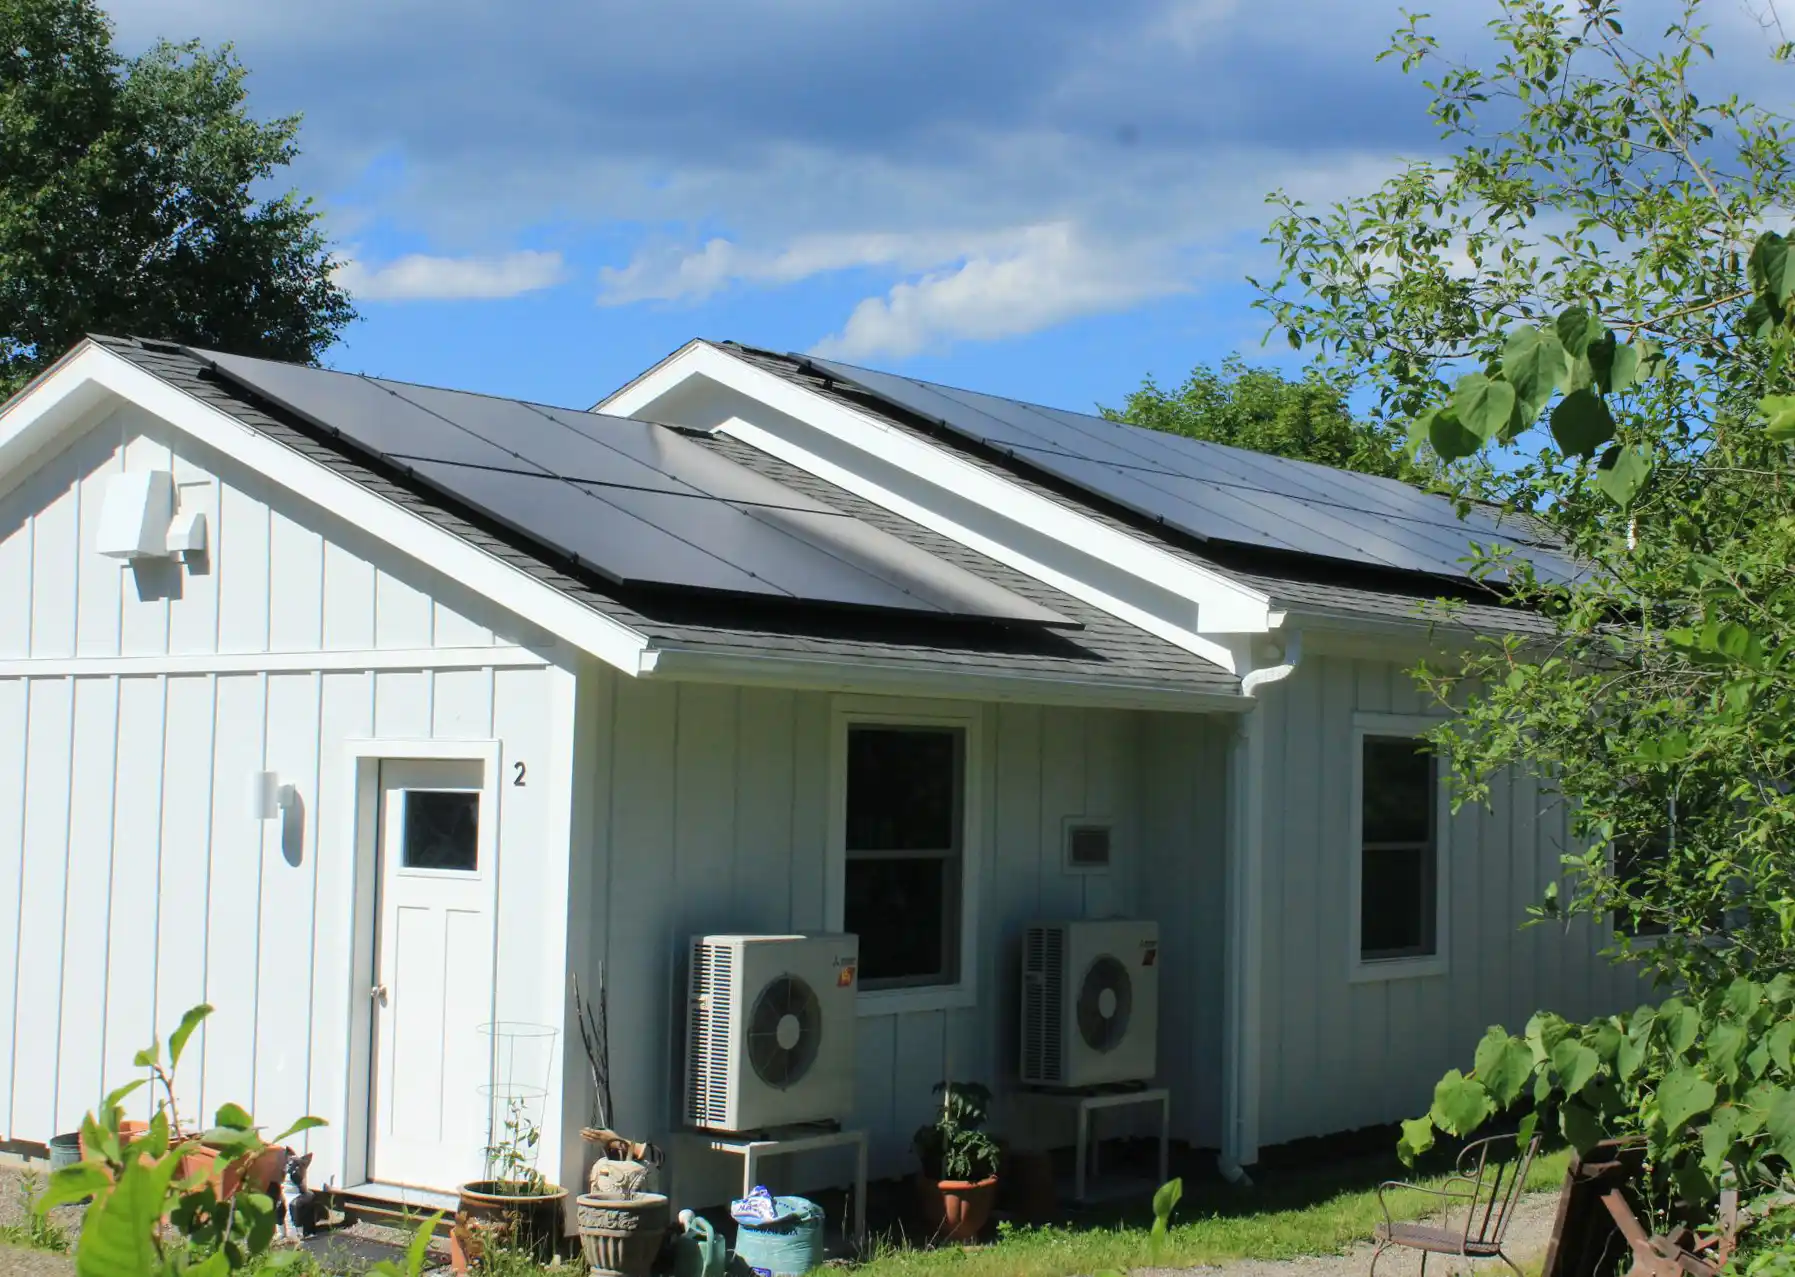
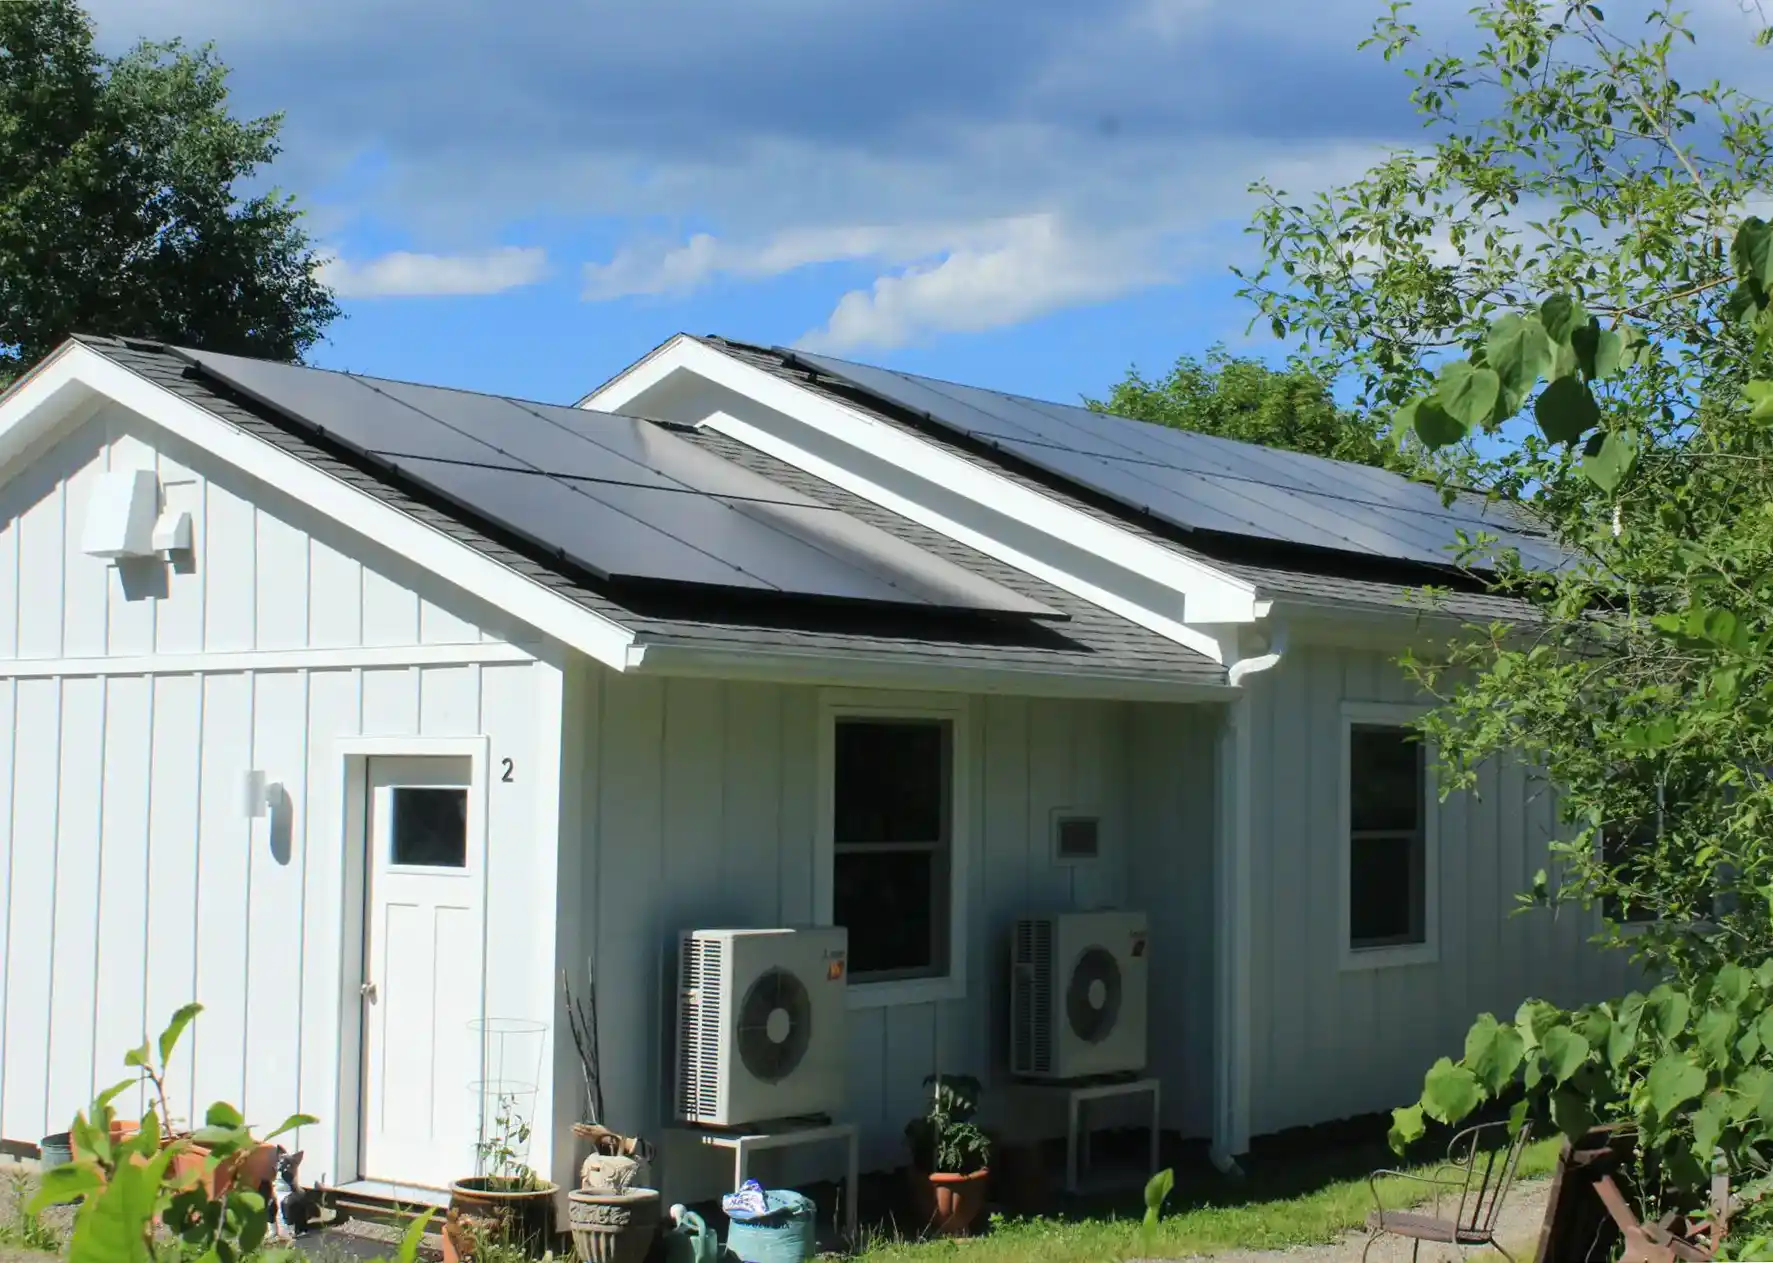
added Svea; minor edits

diff --git a/index.html b/index.html
@@ -629,13 +629,13 @@
       <p class="section-eyebrow">The People</p>
       <h2 class="section-title">The Northridge Team</h2>
       <div class="section-rule"></div>
-      <p style="color:#3a4a44;line-height:1.8;">Mike Martin doesn't build alone. Every trade on a Northridge project is a partner who has worked with us before — people whose quality and character we stand behind.</p>
+      <p style="color:#3a4a44;line-height:1.8;">Northridge Construction's trade partners are crucial to each projects's quality. Every trade on a Northridge project is a partner who has worked with us before — people whose quality and character we stand behind.</p>
     </div>
 
     <!-- Mike — featured -->
     <div class="reveal grid md:grid-cols-3 gap-8 mb-12">
       <div style="background:#f0f2ef;padding:2rem;display:flex;gap:1.25rem;align-items:flex-start;">
-        <img src="assets/img/team/team-1.jpg" alt="Mike Martin" style="width:72px;height:72px;border-radius:50%;object-fit:cover;flex-shrink:0;" />
+        <img src="assets/img/team/team-1.webp" alt="Mike Martin" style="width:72px;height:72px;border-radius:50%;object-fit:cover;flex-shrink:0;" />
         <div>
           <p style="font-family:'Lora',serif;font-size:1.1rem;font-weight:600;color:#1e2a26;">Mike Martin</p>
           <p style="font-size:0.7rem;letter-spacing:0.1em;text-transform:uppercase;color:#3d6b5a;margin:0.25rem 0 0.75rem;">Owner &amp; General Contractor</p>
@@ -643,7 +643,7 @@
         </div>
       </div>
       <div style="background:#f0f2ef;padding:2rem;display:flex;gap:1.25rem;align-items:flex-start;">
-        <img src="assets/img/team/team-2.jpg" alt="Susie Meadows" style="width:72px;height:72px;border-radius:50%;object-fit:cover;flex-shrink:0;" />
+        <img src="assets/img/team/team-2.webp" alt="Susie Meadows" style="width:72px;height:72px;border-radius:50%;object-fit:cover;flex-shrink:0;" />
         <div>
           <p style="font-family:'Lora',serif;font-size:1.1rem;font-weight:600;color:#1e2a26;">Susie Meadows</p>
           <p style="font-size:0.7rem;letter-spacing:0.1em;text-transform:uppercase;color:#3d6b5a;margin:0.25rem 0 0.75rem;">Office Manager</p>
@@ -651,7 +651,7 @@
         </div>
       </div>
       <div style="background:#f0f2ef;padding:2rem;display:flex;gap:1.25rem;align-items:flex-start;">
-        <img src="assets/img/team/team-3.jpg" alt="Donny Manson" style="width:72px;height:72px;border-radius:50%;object-fit:cover;flex-shrink:0;" />
+        <img src="assets/img/team/team-3.webp" alt="Donny Manson" style="width:72px;height:72px;border-radius:50%;object-fit:cover;flex-shrink:0;" />
         <div>
           <p style="font-family:'Lora',serif;font-size:1.1rem;font-weight:600;color:#1e2a26;">Donny Manson</p>
           <p style="font-size:0.7rem;letter-spacing:0.1em;text-transform:uppercase;color:#3d6b5a;margin:0.25rem 0 0.75rem;">Specialist</p>
@@ -666,39 +666,46 @@
       <div class="grid grid-cols-2 md:grid-cols-4 gap-px bg-fog-dark">
 
         <div style="background:#faf9f7;padding:1.25rem 1.5rem;display:flex;align-items:center;gap:1rem;">
-          <img src="assets/img/team/team-4.jpg" alt="Tim Dube" style="width:48px;height:48px;border-radius:50%;object-fit:cover;flex-shrink:0;" />
+          <img src="assets/img/team/team-4.webp" alt="Tim Dube" style="width:48px;height:48px;border-radius:50%;object-fit:cover;flex-shrink:0;" />
           <div><p style="font-size:0.875rem;font-weight:500;color:#1e2a26;">Tim Dube</p><p style="font-size:0.72rem;color:#6b7f78;">Dube's Construction</p></div>
         </div>
 
         <div style="background:#faf9f7;padding:1.25rem 1.5rem;display:flex;align-items:center;gap:1rem;">
-          <img src="assets/img/team/team-5.jpg" alt="Adam MacDonald" style="width:48px;height:48px;border-radius:50%;object-fit:cover;flex-shrink:0;" />
+          <img src="assets/img/team/team-5.webp" alt="Adam MacDonald" style="width:48px;height:48px;border-radius:50%;object-fit:cover;flex-shrink:0;" />
           <div><p style="font-size:0.875rem;font-weight:500;color:#1e2a26;">Adam MacDonald</p><p style="font-size:0.72rem;color:#6b7f78;">MacDonald Concrete</p></div>
         </div>
 
         <div style="background:#faf9f7;padding:1.25rem 1.5rem;display:flex;align-items:center;gap:1rem;">
-          <img src="assets/img/team/team-6.jpg" alt="Gary Ensworth" style="width:48px;height:48px;border-radius:50%;object-fit:cover;flex-shrink:0;" />
+          <img src="assets/img/team/team-6.webp" alt="Gary Ensworth" style="width:48px;height:48px;border-radius:50%;object-fit:cover;flex-shrink:0;" />
           <div><p style="font-size:0.875rem;font-weight:500;color:#1e2a26;">Gary Ensworth</p><p style="font-size:0.72rem;color:#6b7f78;">Maple Knoll Builders</p></div>
         </div>
 
         <div style="background:#faf9f7;padding:1.25rem 1.5rem;display:flex;align-items:center;gap:1rem;">
-          <img src="assets/img/team/team-7.jpg" alt="Jamie Luce" style="width:48px;height:48px;border-radius:50%;object-fit:cover;flex-shrink:0;" />
+          <img src="assets/img/team/team-7.webp" alt="Jamie Luce" style="width:48px;height:48px;border-radius:50%;object-fit:cover;flex-shrink:0;" />
           <div><p style="font-size:0.875rem;font-weight:500;color:#1e2a26;">Jamie Luce</p><p style="font-size:0.72rem;color:#6b7f78;">Maple Knoll Builders</p></div>
         </div>
 
         <div style="background:#faf9f7;padding:1.25rem 1.5rem;display:flex;align-items:center;gap:1rem;">
-          <img src="assets/img/team/team-8.jpg" alt="Forrest Larrabee" style="width:48px;height:48px;border-radius:50%;object-fit:cover;flex-shrink:0;" />
+          <img src="assets/img/team/team-8.webp" alt="Forrest Larrabee" style="width:48px;height:48px;border-radius:50%;object-fit:cover;flex-shrink:0;" />
           <div><p style="font-size:0.875rem;font-weight:500;color:#1e2a26;">Forrest Larrabee</p><p style="font-size:0.72rem;color:#6b7f78;">Larrabee Plumbing</p></div>
         </div>
 
         <div style="background:#faf9f7;padding:1.25rem 1.5rem;display:flex;align-items:center;gap:1rem;">
-          <img src="assets/img/team/team-9.jpg" alt="Jeff Niess" style="width:48px;height:48px;border-radius:50%;object-fit:cover;flex-shrink:0;" />
+          <img src="assets/img/team/team-9.webp" alt="Jeff Niess" style="width:48px;height:48px;border-radius:50%;object-fit:cover;flex-shrink:0;" />
           <div><p style="font-size:0.875rem;font-weight:500;color:#1e2a26;">Jeff Niess</p><p style="font-size:0.72rem;color:#6b7f78;">Niess Tile</p></div>
         </div>
 
         <div style="background:#faf9f7;padding:1.25rem 1.5rem;display:flex;align-items:center;gap:1rem;">
-          <img src="assets/img/team/team-10.jpg" alt="Kevin Gray" style="width:48px;height:48px;border-radius:50%;object-fit:cover;flex-shrink:0;" />
+          <img src="assets/img/team/team-10.webp" alt="Kevin Gray" style="width:48px;height:48px;border-radius:50%;object-fit:cover;flex-shrink:0;" />
           <div><p style="font-size:0.875rem;font-weight:500;color:#1e2a26;">Kevin Gray</p><p style="font-size:0.72rem;color:#6b7f78;">Kenney &amp; Gray Electric</p></div>
         </div>
+
+      <a href="https://www.maineblowerdoortest.com/" target="_blank" style="text-decoration:none;">
+        <div style="background:#faf9f7;padding:1.25rem 1.5rem;display:flex;align-items:center;gap:1rem;">
+          <img src="assets/img/team/team-11.webp" alt="Svea Tullberg" style="width:48px;height:48px;border-radius:50%;object-fit:cover;flex-shrink:0;" />
+          <div><p style="font-size:0.875rem;font-weight:500;color:#1e2a26;">Svea Tullberg</p><p style="font-size:0.72rem;color:#6b7f78;">Maine Blower Door Testing</p></div>
+        </div>
+      </a>
 
       </div>
     </div>
@@ -808,7 +815,7 @@
           <span style="font-family:'Lora',serif;font-size:1rem;font-weight:600;color:#1e2a26;">How much does it cost to build a new house in Midcoast Maine?</span>
           <svg class="faq-chevron" width="16" height="16" viewBox="0 0 16 16" fill="none" style="flex-shrink:0;"><path d="M3 6l5 5 5-5" stroke="#3d6b5a" stroke-width="1.5" stroke-linecap="round" stroke-linejoin="round"/></svg>
         </summary>
-        <p style="margin-top:1rem;color:#3a4a44;line-height:1.8;font-size:0.9rem;">A typical cost range is $350 to $425 per square foot for the home itself. The larger the home's conditioned area, the lower the cost per square foot, and vice versa. Note that this cost refers to the structure — not the lot, site utilities, or design fees. Use our <a href="#your-project" style="color:#3d6b5a;font-weight:500;">Project Cost estimator</a> above for a rough breakdown, or contact us for a detailed estimate.</p>
+        <p style="margin-top:1rem;color:#3a4a44;line-height:1.8;font-size:0.9rem;">A typical cost range is $375 to $450 per square foot for the home itself. The larger the home's conditioned area, the lower the cost per square foot, and vice versa. Note that this cost refers to the building itself— not the lot, site utilities, or design fees. Use our <a href="#your-project" style="color:#3d6b5a;font-weight:500;">Project Cost estimator</a> above  (forthcoming) for a rough breakdown, or contact us for a detailed estimate.</p>
       </details>
 
       <details class="faq-item reveal" style="border-bottom:1px solid #d1d8d4;padding:1.5rem 0;">

diff --git a/assets/js/projects.js b/assets/js/projects.js
@@ -284,12 +284,12 @@ export const projects = [
     drawing: 'assets/img/portfolio/renovation-addition-belfast-hero-bw.webp',
     delivery_url: null,
     gallery: [ 
-      { src: 'assets/img/portfolio/renovation-addition-belfast-00.webp', caption: '' },
+      { src: 'assets/img/portfolio/renovation-addition-belfast-00.webp', caption: 'north elevation, June, 2026' },
       { src: 'assets/img/portfolio/renovation-addition-belfast-01.webp', caption: 'north elevation, August 2026' },
-      { src: 'assets/img/portfolio/renovation-addition-belfast-02.webp', caption: 'solar system for Apartment 2' },
       { src: 'assets/img/portfolio/renovation-addition-belfast-03.webp', caption: 'roof framing superstructure' },
       { src: 'assets/img/portfolio/renovation-addition-belfast-04.webp', caption: 'Apartment 1 entry addition' },
       { src: 'assets/img/portfolio/renovation-addition-belfast-05.webp', caption: 'Crawl Space 1 heat pump indoor unit' },
+      { src: 'assets/img/portfolio/renovation-addition-belfast-02.webp', caption: 'solar system for Apartment 2' },
     ],
   },
 
